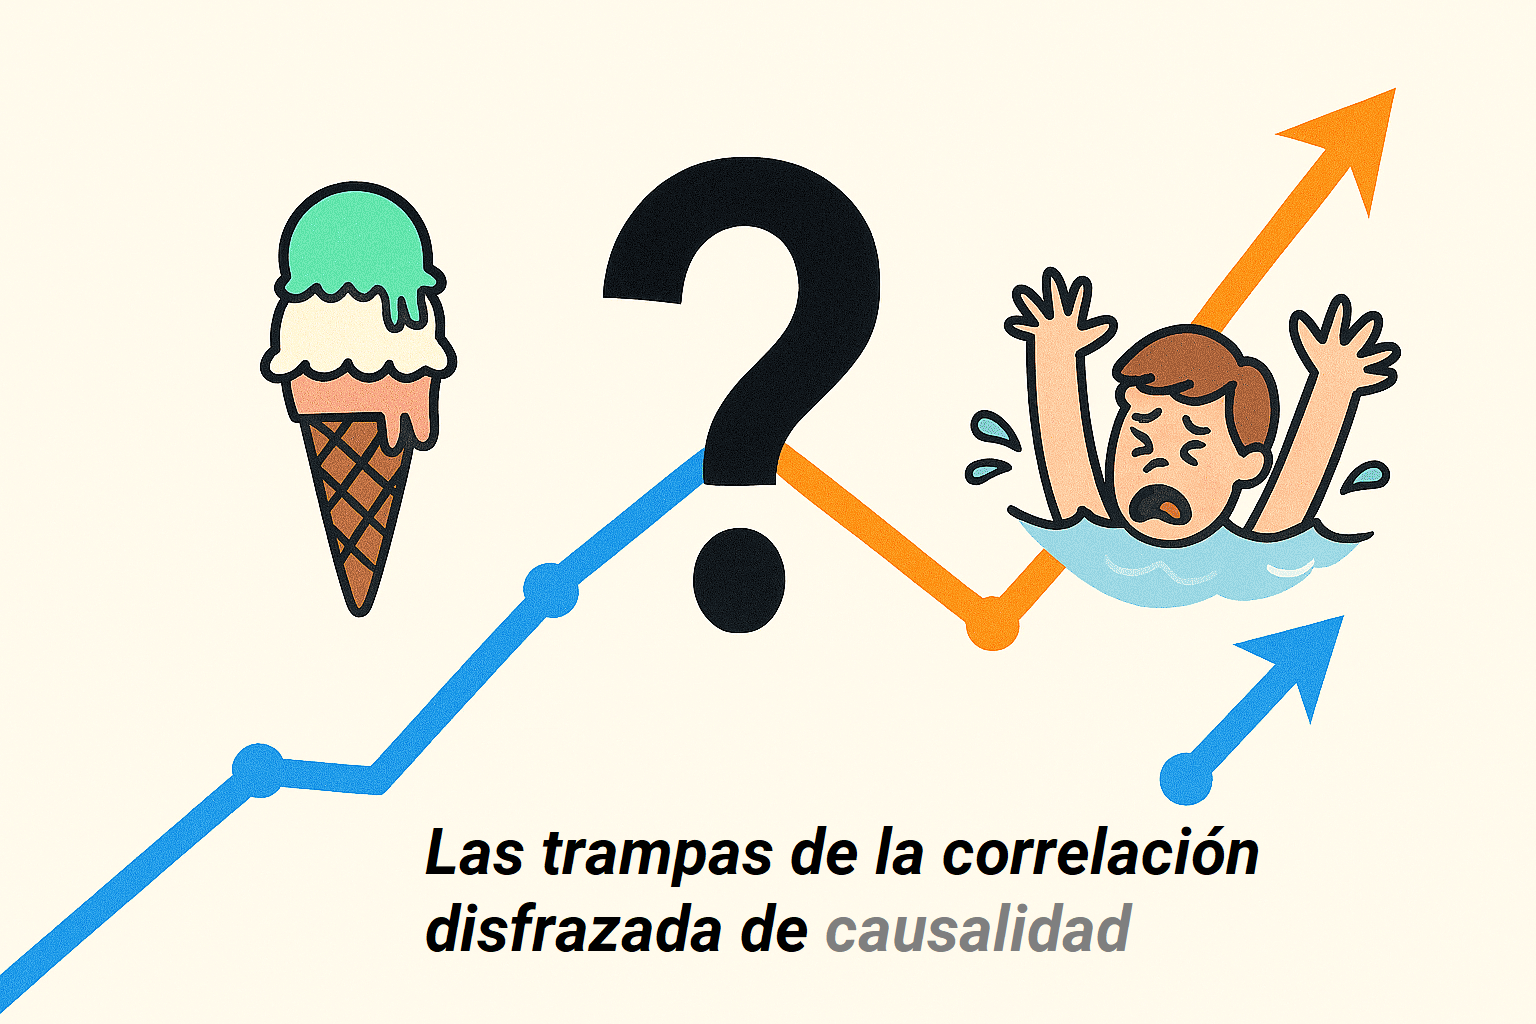
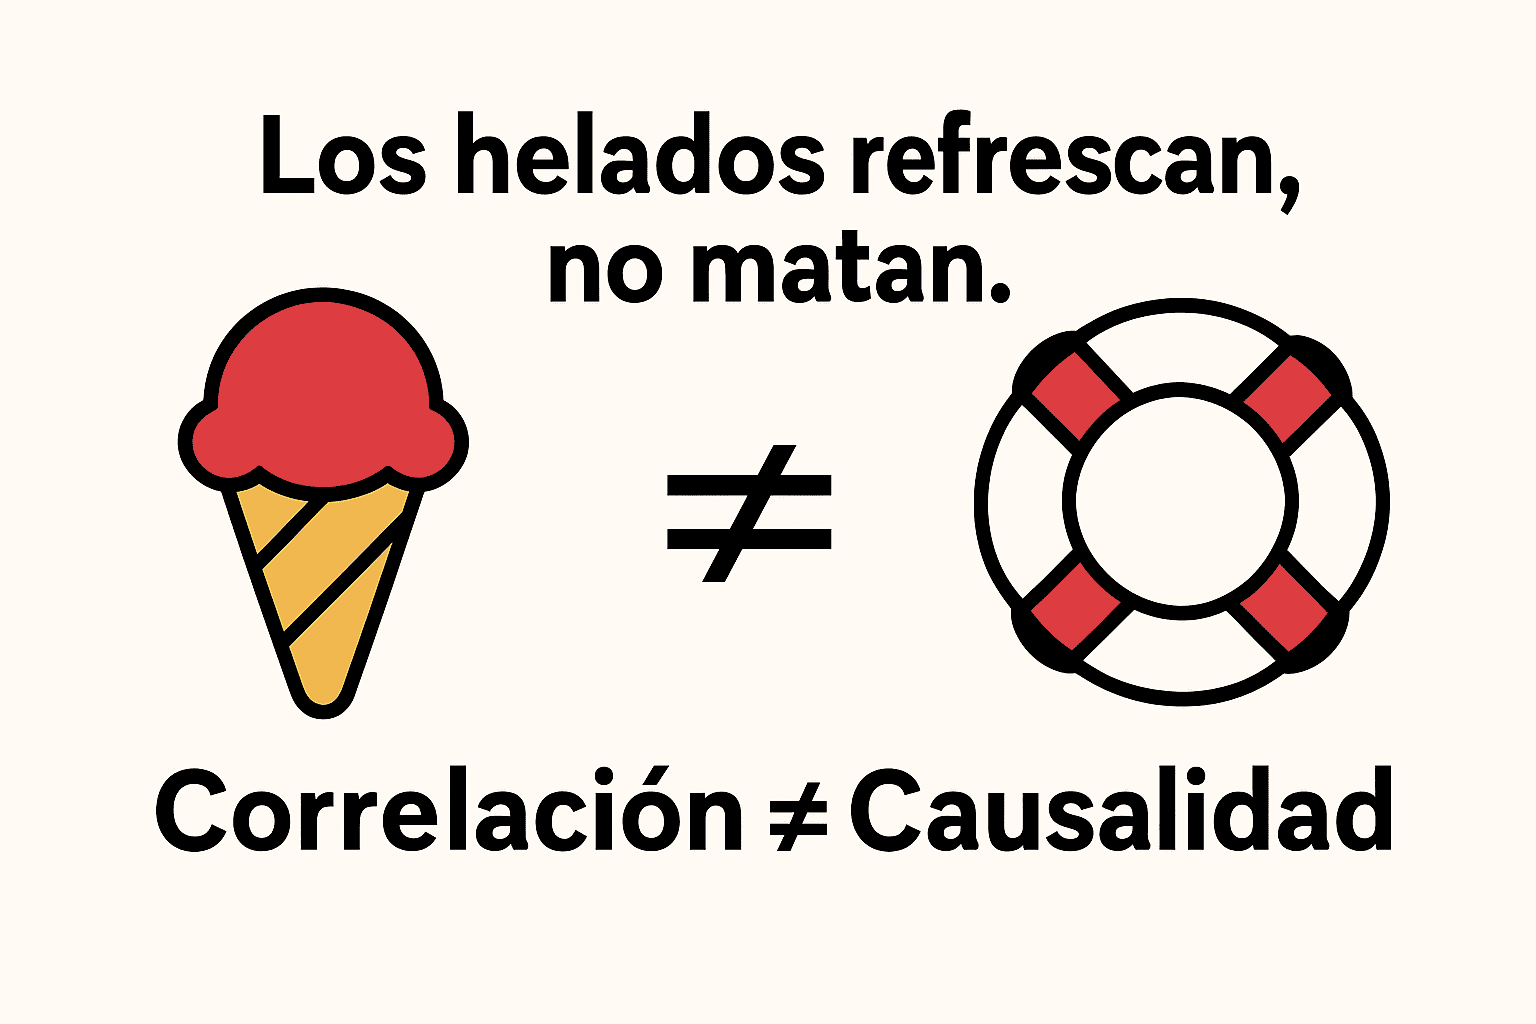
correlaciones

Changed region(s): [[0.0, 0.0938, 0.9375, 1.0]]

diff --git a/content/post/2025-09-24-correlacionvscausalidad/index.md b/content/post/2025-09-24-correlacionvscausalidad/index.md
@@ -13,10 +13,10 @@ slug: trampas-correlacion
 summary: "Guía práctica con R para desarrollar modelos predictivos robustos en entornos clínicos, siguiendo la metodología de Steyerberg"
 featured: true  # Destacar en la página principal
 language: es
-draft: true 
+draft: false 
 ---
 
-El ojo humano ama los patrones: ver dos líneas que se mueven juntas y concluir que una provoca la otra. La estadística, mal interpretada, a veces alimenta esa ilusión. En Cultura estadística e investigación científica, Luis Carlos Silva llama la atención sobre esta confusión: la correlación es apenas la danza conjunta de dos variables, no una flecha de causa. Y, sin embargo, titulares, políticas y hasta decisiones médicas se sostienen sobre esta trampa.
+El ojo humano ama los patrones: ver dos líneas que se mueven juntas y concluir que una provoca la otra. La estadística, mal interpretada, a veces alimenta esa ilusión. La correlación es apenas la danza conjunta de dos variables, no una flecha de causa. Y, sin embargo, titulares, políticas y hasta decisiones médicas se sostienen sobre esta trampa.
 
 # 1) Correlaciones curiosas (pero falsas)
 
@@ -28,40 +28,69 @@ El ojo humano ama los patrones: ver dos líneas que se mueven juntas y concluir 
 
 ---
 
-# La correlación y su impacto en la toma de decisiones
+## 2) La correlación y su impacto en la toma de decisiones
 
 La confusión entre causalidad y correlación no es solo un chiste; tiene consecuencias graves.
 
-**Política pública:** Imagina que un estudio muestra que los países con más médicos per cápita tienen más diagnósticos de cáncer. Una interpretación simplista podría concluir que los médicos "causan" el cáncer. La realidad, sin embargo, es que un mayor número de médicos conduce a una mejor detección del cáncer. La correlación aquí es el reflejo de una variable oculta: la calidad de la atención médica.
+**Política pública:** Un estudio muestra que los países con más médicos per cápita tienen más diagnósticos de cáncer. Conclusión errada: “los médicos causan cáncer”. Realidad: mayor densidad médica implica mejor detección.
 
-**Falacia de la causa inversa:** Un estudio puede revelar que los niños con bajo rendimiento escolar pasan más horas frente a la televisión. ¿La televisión causa el bajo rendimiento? O, ¿los niños con dificultades académicas recurren más a la televisión? La dirección de la causalidad es a menudo difícil de determinar.
-
----
-
-# Causalidad: un desafío que exige rigurosidad
-
-Identificar la causalidad no se improvisa. Requiere algo más que una simple correlación. Exige un diseño experimental riguroso, el uso de criterios como los de Bradford Hill y la construcción de modelos causales sólidos. La estadística es una herramienta poderosa que puede sugerir relaciones, pero nunca probarlas sin un contexto teórico y supuestos claros.
+**Falacia de la causa inversa:** Niños con bajo rendimiento escolar pasan más horas frente a la televisión. ¿La TV los perjudica? ¿O los niños con dificultades recurren más a ella? La dirección de la causalidad puede invertirse fácilmente.
 
 ---
 
-# Metáfora para recordar
+# 3) **¿Qué mide realmente la correlación?**
 
-Piensa en la correlación como ver dos hojas que caen juntas en otoño. Creer que una arrastra a la otra es ignorar la existencia del viento invisible que las mueve a ambas.
+- El **coeficiente de correlación (r)** mide la fuerza y dirección de la relación entre dos variables.  
+- Sus valores van de **-1 a +1**:  
+  - +1 → relación positiva perfecta  
+  - -1 → relación negativa perfecta  
+  - 0 → ausencia de relación lineal  
 
-# Checklist para evitar caer en la trampa
+{{% callout note %}}
+**Advertencia:** un r alto no significa causalidad. Puede deberse a **confusores**, **azar** o **causalidad inversa**.
+{{% /callout %}}
 
-1. ¿Existe una variable oculta (confusor) que pueda explicar la relación? ✔
+  
 
-2. ¿Podría la causalidad ir en sentido contrario? ✔
+---
 
-3. ¿El diseño del estudio permite concluir causalidad o solo una asociación? ✔
+# 4) Tipos de coeficientes de correlación (más allá de Pearson)
 
-4. ¿Hay criterios teóricos o experimentales que respalden esta relación? ✔
+![](correlacion.png)
 
-5. ¿Se comunicó claramente que es una correlación, no causalidad? ✔
+---
+
+# 5) **Causalidad:** un desafío que exige rigurosidad
+
+Identificar la causalidad no se improvisa. Requiere algo más que una simple correlación. Exige un diseño experimental riguroso, criterios de Bradford Hill y construcción de modelos causales. La estadística sugiere, pero no prueba por sí sola.
+
+---
+
+# 6) Metáfora para recordar
+
+Piensa en la correlación como ver dos hojas que caen juntas en otoño. Creer que una arrastra a la otra es ignorar el viento invisible que las mueve a ambas.
+
+---
+
+# 7) Checklist para evitar caer en la trampa
+
+1. ¿Existe una variable oculta (confusor) que explique la relación? ✔  
+2. ¿Podría la causalidad ir en sentido contrario? ✔  
+3. ¿El diseño permite concluir causa o solo asociación? ✔  
+4. ¿Hay criterios teóricos/experimentales que respalden esta relación? ✔  
+5. ¿Se comunicó claramente que es correlación, no causalidad? ✔  
+
+---
 
 # Bibliografía
 
-Silva Aycaguer LC. Cultura estadística e investigación científica en el campo de la salud: una mirada crítica. Madrid: Diaz de Santos; 1998. 
+Silva Aycaguer LC. *Cultura estadística e investigación científica en el campo de la salud: una mirada crítica*. Madrid: Díaz de Santos; 1998.  
 
+Pearl, J. (2009). Causality: Models, Reasoning, and Inference (2nd ed.). Cambridge University Press.
+
+Hernán, M. A., & Robins, J. M. (2020). Causal Inference: What If. Chapman & Hall/CRC. [Disponible gratis en línea].
+
+Hill, A. B. (1965). The environment and disease: association or causation? Proceedings of the Royal Society of Medicine, 58(5), 295–300. (Criterios de Bradford Hill).
+
+Freedman, D. A. (2005). Statistical Models: Theory and Practice. Cambridge University Press. (Discusión crítica sobre correlación y causalidad).
 
